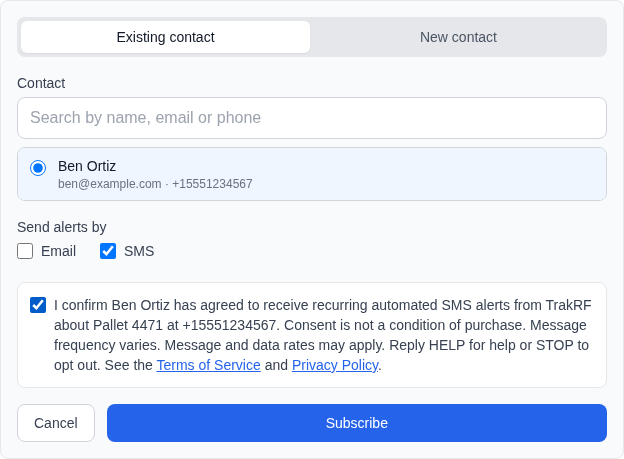
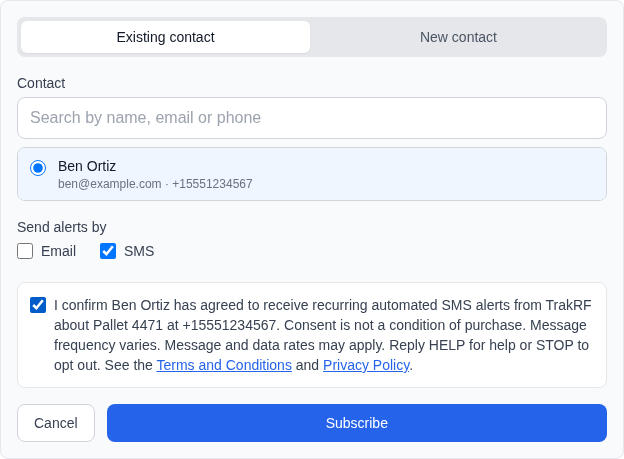
docs: link SMS consent to the docs privacy policy and terms
The trakrf.id privacy policy has no SMS section; the docs copies at
/privacy and /terms do. Screenshots retaken to show the new links.

Changed region(s): [[0.3045, 0.7625, 0.6699, 0.8235]]

diff --git a/docs/user-guide/sms-notifications.md b/docs/user-guide/sms-notifications.md
@@ -62,7 +62,7 @@ The consent statement reads, with the contact, asset and number filled in:
 > I confirm _[contact]_ has agreed to receive recurring automated SMS alerts from TrakRF about
 > _[asset]_ at _[mobile number]_. Consent is not a condition of purchase. Message frequency varies.
 > Message and data rates may apply. Reply HELP for help or STOP to opt out. See the
-> [Terms of Service](https://trakrf.id/tos) and [Privacy Policy](https://trakrf.id/privacy-policy).
+> [Terms and Conditions](/terms) and [Privacy Policy](/privacy).
 
 Only tick it once the person who owns that number has agreed to receive the alerts. If they have
 not, untick **SMS** and subscribe them by email instead.
@@ -92,5 +92,5 @@ and HELP requests.
 for marketing or promotional purposes.** We share it only with the messaging provider that delivers
 the texts on our behalf.
 
-For more detail, see our [Privacy Policy](https://trakrf.id/privacy-policy) and
-[Terms of Service](https://trakrf.id/tos). Questions: [support@trakrf.id](mailto:support@trakrf.id).
+For more detail, see our [Privacy Policy](/privacy) and
+[Terms and Conditions](/terms). Questions: [support@trakrf.id](mailto:support@trakrf.id).
